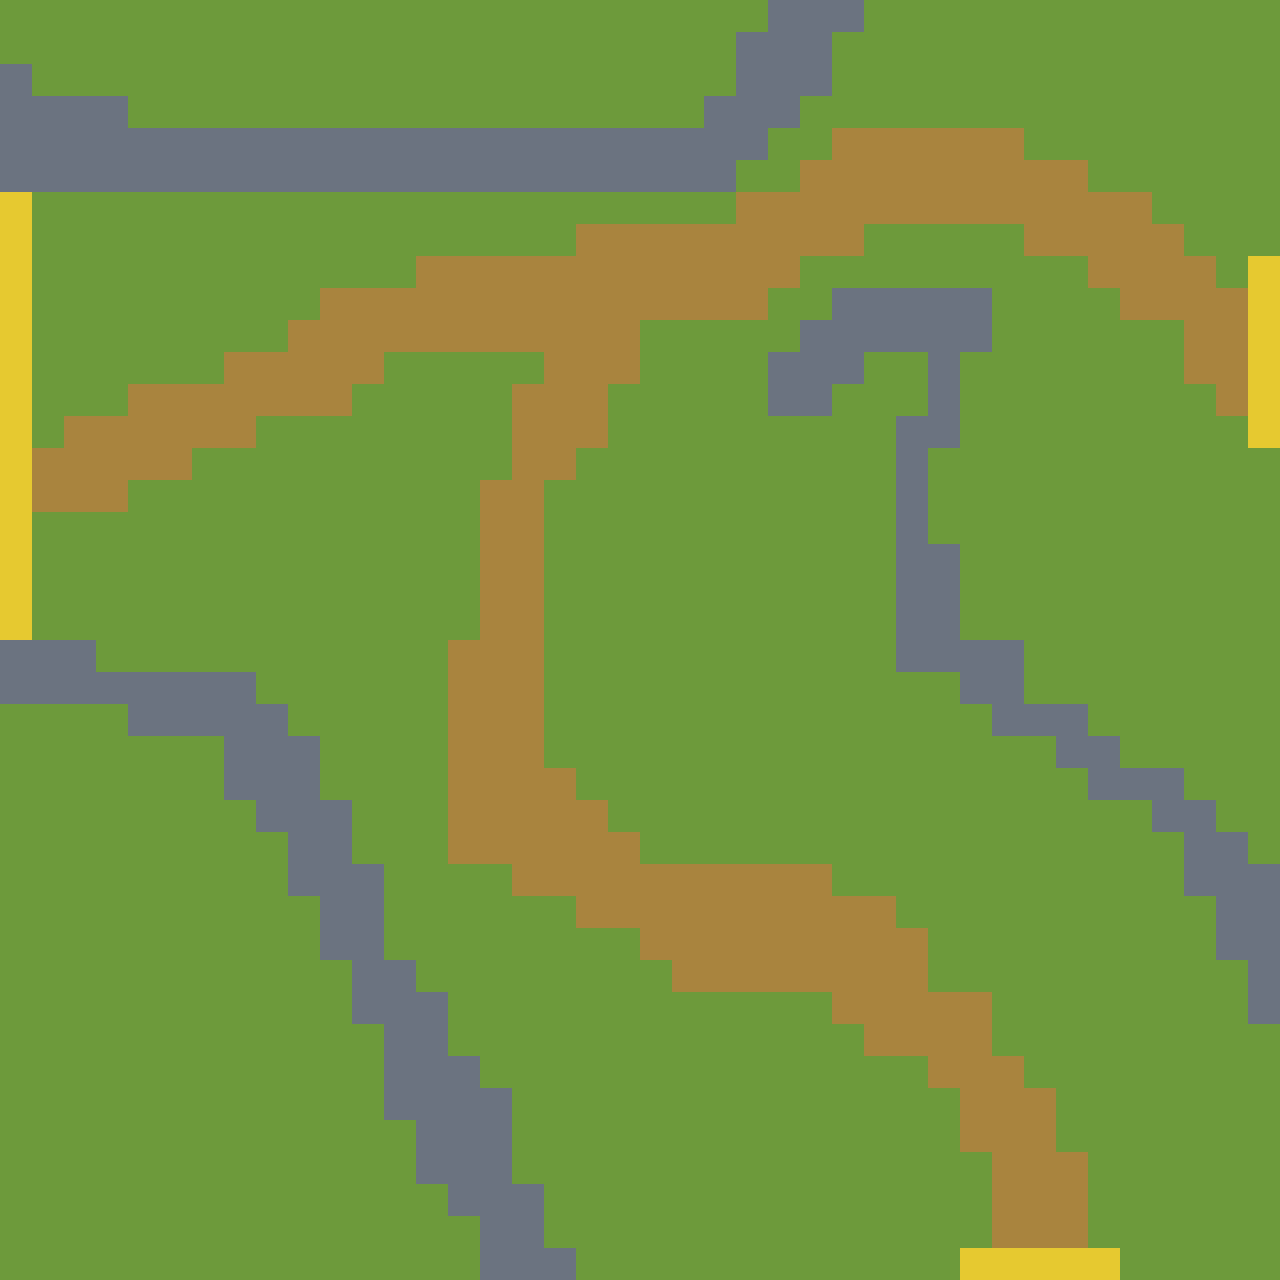
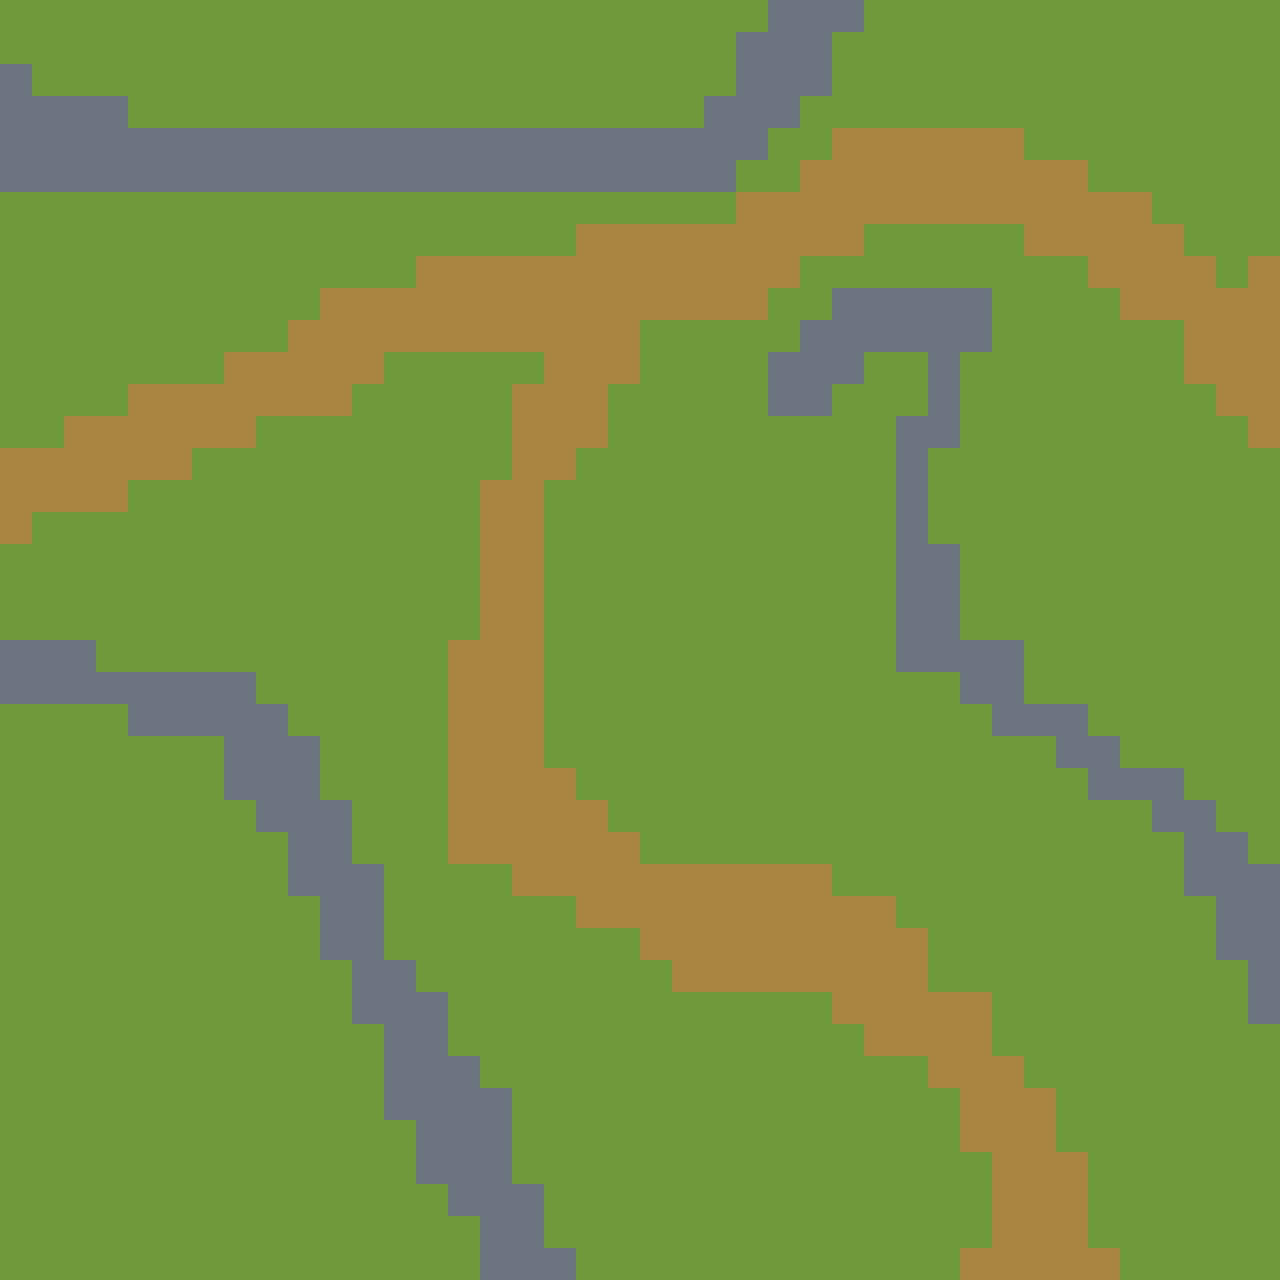
docs+data: 產圖模板畫風改為手繪水彩、修 nfr_b 藍圖缺格
① docs/pipeline/地圖產圖流程.md v1.1 → v1.2：固定開頭的「手繪像素藝術風格」
   改為「手繪水彩插畫風格…不是像素藝術，不是方塊拼貼貼圖」。design 規格從未
   要求像素風，已驗收的手繪圖（Town／nfr_a／ef_*／nm_*）也都是水彩感插畫；
   舊寫法產出的 nfr_b 是像素／tile 風、與 nfr_a 對不上而作廢，故正名。

② map-def M5:b terrain 第 16 列最左一格由「空（圖外）」改為泥路——1600 格中
   唯一的空格，留著會在西側邊界形成不可走的洞，也與「有藍圖即全幅滿版」的
   畫布規格矛盾（blueprint_desc 因此輸出「保留圖外背景」）。修正後該行自動
   變回「全幅滿版」。

③ 重產 assets-source/map/new_floret_road/nfr_b_blueprint.png——原檔是 2026-07-25
   匯出，之後 terrain 改過（第 6 列以下整片不同），已與現行 map-def 脫勾。

Changed region(s): [[0.0, 0.125, 0.0312, 0.5], [0.9688, 0.1875, 1.0, 0.375], [0.75, 0.9688, 0.875, 1.0]]

diff --git a/docs/pipeline/地圖產圖流程.md b/docs/pipeline/地圖產圖流程.md
@@ -1,6 +1,6 @@
 # 地圖產圖流程（畫一張手繪地圖 png）
 
-- 版本: v1.1（2026-07-25，驗證地格藍圖的全幅版圖鎖定 prompt；藍圖決定結構，AI 只決定美術）
+- 版本: v1.2（2026-08-19，固定開頭的畫風由「手繪像素藝術」改為「手繪水彩插畫」並明確排除像素風；v1.1 2026-07-25 驗證地格藍圖的全幅版圖鎖定 prompt）
 - 對應 skill: `gen-map-prompt`（問答收需求 → 依本檔模板組 prompt；規則以本檔＋design 規格為準，skill 不內嵌規則）
 - 上下游: 連通關係（出入口通哪）以 `assets-source/map/map-def.json` 為權威、用網頁工具維護；產完圖的場景建置／碰撞見 [地圖製作流程.md](地圖製作流程.md)
 
@@ -19,6 +19,10 @@
 
 ## 二、Prompt 模板（單一真相源）
 
+> **畫風用語沿革（2026-08-19）**：固定開頭原寫「手繪像素藝術風格」，但 `docs/design/地圖畫面規格.md`
+> 從未要求像素風，實際已驗收的手繪圖（Town、nfr_a、ef_*、nm_*）也都是水彩感插畫。舊寫法產出的
+> `nfr_b` 是像素／tile 風、與 nfr_a 對不上而作廢——因此改為明確寫「手繪水彩插畫」並排除像素風。
+
 > 固定開頭是 [`docs/design/地圖畫面規格.md`](../design/地圖畫面規格.md) 各節規則的 prompt 化版本
 > ——**改畫面規格時，規格文字與本模板要一起改**（skill 只引用本檔，不另存副本）。
 > `{SIZE}` 預設 `1280x1280`。整段同一語言、不混語言。
@@ -27,7 +31,7 @@
 
 ```
 附圖一是唯一的結構藍圖：逐格保留所有地形區塊的位置、邊界形狀、道路彎折與出入口接觸畫布邊緣的位置；不可出現附圖的色塊、格線、文字、數字或 UI。附圖二（如有）只作為畫風與材質參考，不可沿用它的道路或地形配置。
-俯視 3/4 視角的 RPG 遊戲地圖，手繪像素藝術風格。
+俯視 3/4 視角的 RPG 遊戲地圖，手繪水彩插畫風格，柔和筆觸與細膩紙面顆粒；不是像素藝術，不是方塊拼貼貼圖，沒有可見的色塊階梯邊緣。
 畫布正好 {SIZE}，全幅滿版：畫布每個像素都由藍圖指定的地形填滿，沒有圖外深灰、島嶼外框、邊框或留白。道路、障礙與出入口都對齊 32px 網格；主要通道至少 64px 寬。
 道路的每一個彎折、寬度變化與連通關係必須逐格跟隨藍圖；不可拉直、平滑、改道、增加、刪除或中斷道路。每個出口都必須直接接觸畫布邊緣，位置與寬度以藍圖為準；不要畫方向箭頭。
 山壁、河流、森林等障礙物的輪廓必須逐格跟隨藍圖；地圖內的高地不得被改成外框或邊界。
